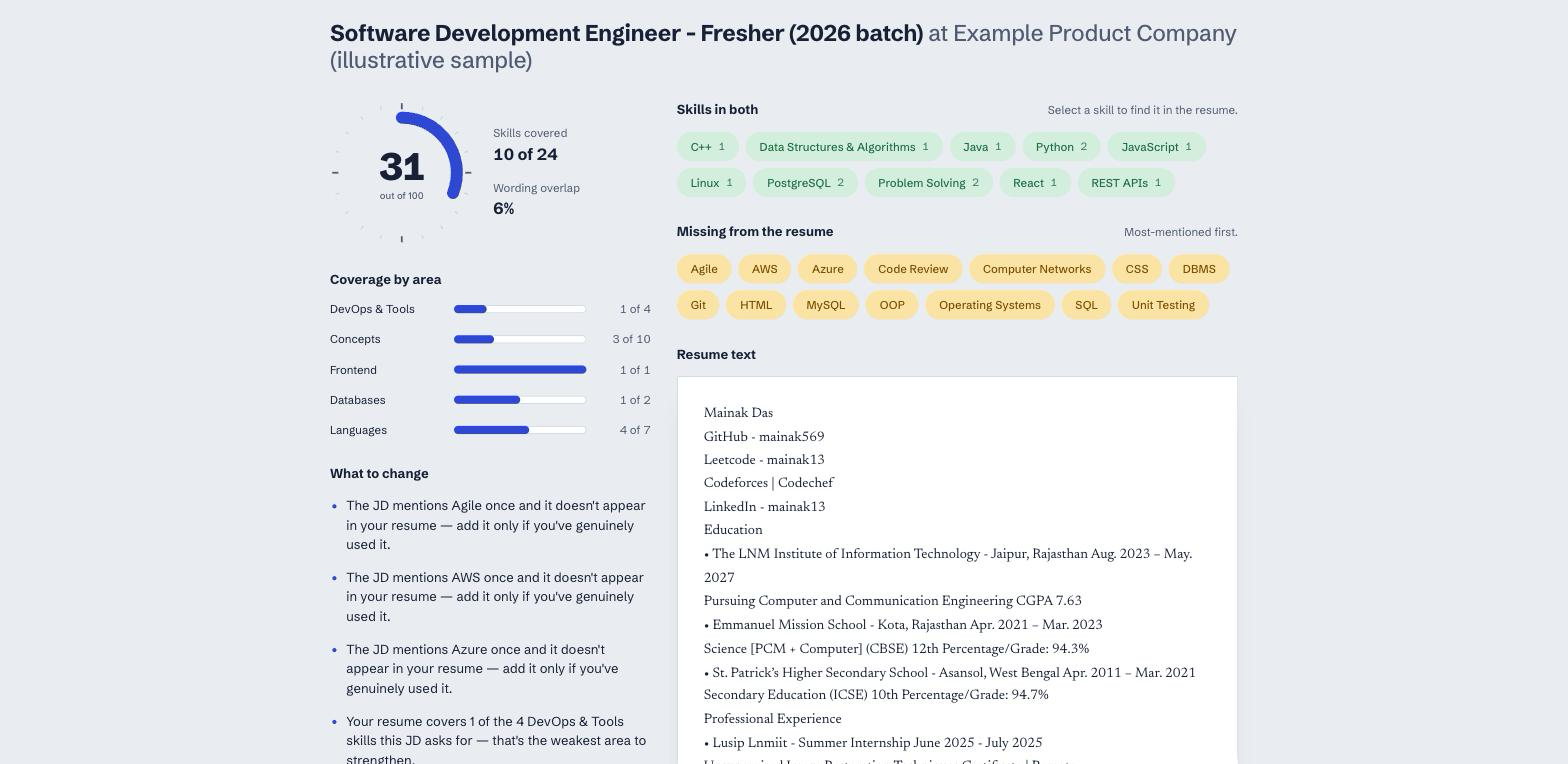
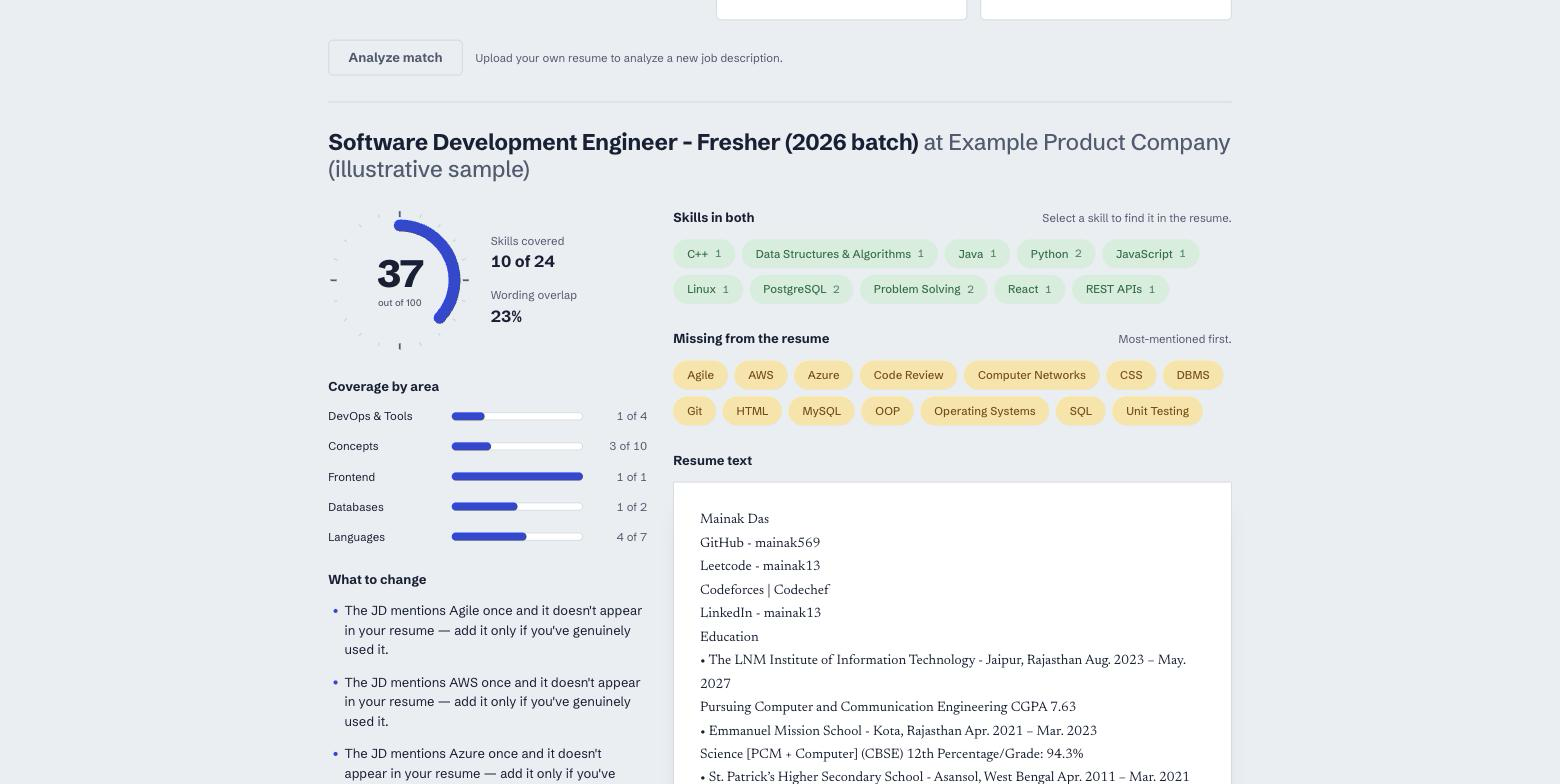
docs: update screenshot

Changed region(s): [[0.2154, 0.1204, 0.8, 1.0], [0.2154, 0.0301, 0.8, 0.0903], [0.2154, 0.4516, 0.3692, 0.572]]

diff --git a/README.md b/README.md
@@ -2,7 +2,7 @@
 
 JobFit checks how well a resume matches a job description. Upload a resume PDF and paste a job post: JobFit extracts the text, finds the skills both documents mention using a 146-skill taxonomy with word-boundary matching, scores the overall fit with a hand-written TF-IDF similarity, and tells you which skills are missing and what to change. Every analysis is saved, so one resume can be compared against several job descriptions side by side.
 
-![JobFit showing a match score of 31, matched skills in green, missing skills in amber, and coverage by area](docs/screenshot.png)
+![JobFit showing a match score of 37, matched skills in green, missing skills in amber, and coverage by area](docs/screenshot.png)
 
 **Live demo:** https://jobfit-livid.vercel.app (click "Try the demo"; the API sleeps when idle, so the first request can take about a minute).
 
